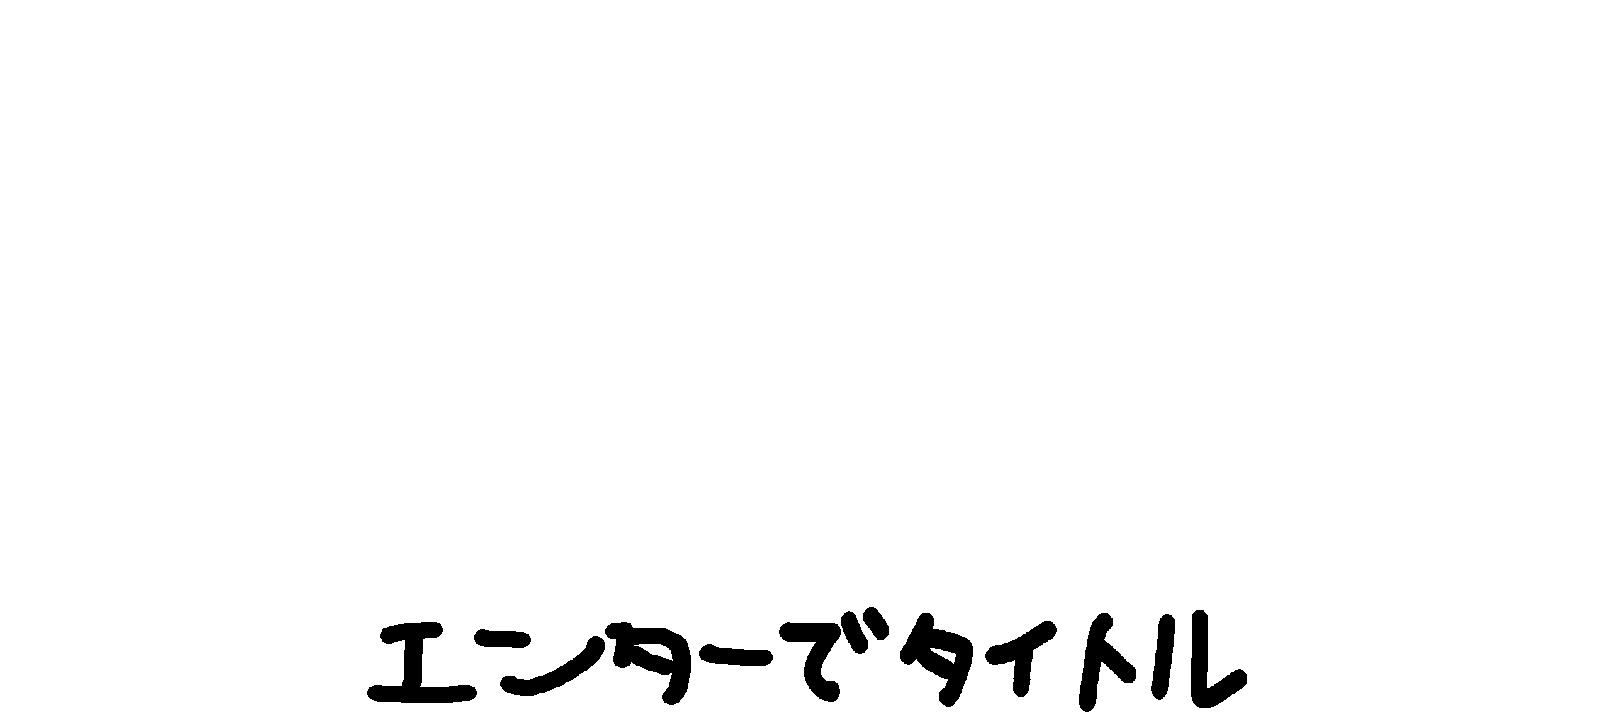
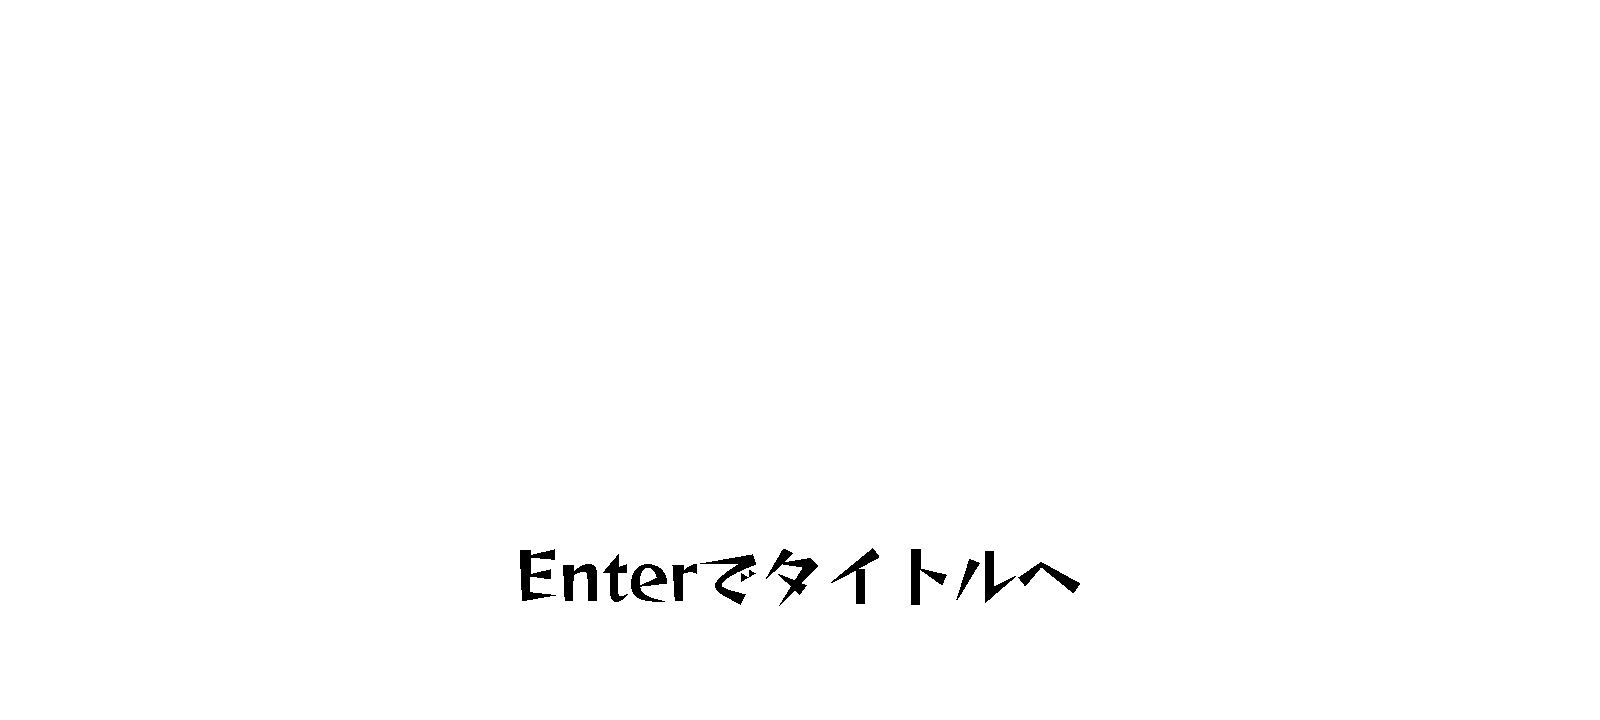
【main】初期化処理&ゲームオーバー画面のフォント差し替え

Changed region(s): [[0.2188, 0.7639, 0.7812, 1.0]]

diff --git a/main.cpp b/main.cpp
@@ -215,7 +215,7 @@ int WINAPI WinMain(HINSTANCE, HINSTANCE, LPSTR, int)
 		Novice::LoadAudio("./Resources./Audios./Glass.mp3"),  //グラスが割れた
 		Novice::LoadAudio("./Resources./Audios./Bottle.mp3")  //瓶が割れた
 	};
-
+	int countCatSE = 0;
 	int catSePlay = -1;
 	int glassSePlay = -1;
 	int bottleSePlay = -1;
@@ -283,6 +283,10 @@ int WINAPI WinMain(HINSTANCE, HINSTANCE, LPSTR, int)
 					//落とすオブジェクト
 					for (int i = 0; i < remainObj; i++)
 					{
+						obj[i] =
+						{
+							{ {float(290 + (256 * i)),580},{0,0},64,0,WHITE },false,true,0,false,1
+						};
 						if (!obj[i].WeightFlag)
 						{
 							obj[i].Hp = lightObjHp;
@@ -297,7 +301,9 @@ int WINAPI WinMain(HINSTANCE, HINSTANCE, LPSTR, int)
 						score[i] = 0;
 					}
 					sceneTransFlag = 1;
-
+					countCatSE = 0;
+					attackFlag = 0;
+					attackTimer = 0;
 					//遷移処理はここで記述すると
 					//不具合が起きるため下の描画処理に有り
 				}
@@ -795,7 +801,7 @@ int WINAPI WinMain(HINSTANCE, HINSTANCE, LPSTR, int)
 				else if (!safeFlag && isOwnerLook)
 				{
 					//プレイヤーの死亡処理
-					//isPAlive = false;
+					isPAlive = false;
 				}
 				//ownerTimerが660となっているがサカイのPCが165fpsであるため
 				//165*4(つまりサカイのPC上で3秒)で660となっている。
@@ -948,7 +954,11 @@ int WINAPI WinMain(HINSTANCE, HINSTANCE, LPSTR, int)
 
 			if (keys[DIK_RETURN] && preKeys[DIK_RETURN] == 0)
 			{
-				catSePlay = Novice::PlayAudio(seHundle[0], 0, 0.3f);
+				if (countCatSE == 0)
+				{
+					catSePlay = Novice::PlayAudio(seHundle[0], 0, 0.3f);
+				}
+				countCatSE++;
 			}
 
 			break;
@@ -1129,7 +1139,6 @@ int WINAPI WinMain(HINSTANCE, HINSTANCE, LPSTR, int)
 				//走る描画
 				if (runFlag == true)
 				{
-
 					if (runFlagL && !runFlagR)
 					{
 						if (runTimerL < 6)
@@ -1209,62 +1218,61 @@ int WINAPI WinMain(HINSTANCE, HINSTANCE, LPSTR, int)
 							}
 						}
 					}
-						if (runFlag)
+					if (runFlag)
+					{
+						if (!runFlagL&&!runFlagR)
 						{
-							if (!runFlagL&&!runFlagR)
+							if (idleFlagL || walkFlagL)
 							{
-								if (idleFlagL || walkFlagL)
+								if (attackTimer < 3)
 								{
-									if (attackTimer < 3)
-									{
-										Novice::DrawSprite(int(player.Center.X - player.Rad), int(player.Center.Y - player.Rad), playerTexHundle[0], 1, 1, 0.0f, WHITE);
+									Novice::DrawSprite(int(player.Center.X - player.Rad), int(player.Center.Y - player.Rad), playerTexHundle[0], 1, 1, 0.0f, WHITE);
 
-									}
-									if (attackTimer < 6 && attackTimer>2)
-									{
-										Novice::DrawSpriteRect(int(player.Center.X - player.Rad), int(player.Center.Y - player.Rad), 0, 0, 128, 128, playerTexHundle[6], ((float)128 / (float)512), 1, 0.0f, 0xFFFFFFFF);
-									}
-									if (attackTimer < 12 && attackTimer>5)
-									{
-										Novice::DrawSpriteRect(int(player.Center.X - player.Rad), int(player.Center.Y - player.Rad), 128, 0, 128, 128, playerTexHundle[6], ((float)128 / (float)512), 1, 0.0f, 0xFFFFFFFF);
-									}
-									if (attackTimer < 18 && attackTimer>11)
-									{
-										Novice::DrawSpriteRect(int(player.Center.X - player.Rad), int(player.Center.Y - player.Rad), 256, 0, 128, 128, playerTexHundle[6], ((float)128 / (float)512), 1, 0.0f, 0xFFFFFFFF);
-									}
-									if (attackTimer < 24 && attackTimer>17)
-									{
-										Novice::DrawSpriteRect(int(player.Center.X - player.Rad), int(player.Center.Y - player.Rad), 384, 0, 128, 128, playerTexHundle[6], ((float)128 / (float)512), 1, 0.0f, 0xFFFFFFFF);
-									}
 								}
-
-								if (idleFlagR || walkFlagR)
+								if (attackTimer < 6 && attackTimer>2)
 								{
-									if (attackTimer < 3)
-									{
-										Novice::DrawSprite(int(player.Center.X - player.Rad), int(player.Center.Y - player.Rad), playerTexHundle[1], 1, 1, 0.0f, WHITE);
+									Novice::DrawSpriteRect(int(player.Center.X - player.Rad), int(player.Center.Y - player.Rad), 0, 0, 128, 128, playerTexHundle[6], ((float)128 / (float)512), 1, 0.0f, 0xFFFFFFFF);
+								}
+								if (attackTimer < 12 && attackTimer>5)
+								{
+									Novice::DrawSpriteRect(int(player.Center.X - player.Rad), int(player.Center.Y - player.Rad), 128, 0, 128, 128, playerTexHundle[6], ((float)128 / (float)512), 1, 0.0f, 0xFFFFFFFF);
+								}
+								if (attackTimer < 18 && attackTimer>11)
+								{
+									Novice::DrawSpriteRect(int(player.Center.X - player.Rad), int(player.Center.Y - player.Rad), 256, 0, 128, 128, playerTexHundle[6], ((float)128 / (float)512), 1, 0.0f, 0xFFFFFFFF);
+								}
+								if (attackTimer < 24 && attackTimer>17)
+								{
+									Novice::DrawSpriteRect(int(player.Center.X - player.Rad), int(player.Center.Y - player.Rad), 384, 0, 128, 128, playerTexHundle[6], ((float)128 / (float)512), 1, 0.0f, 0xFFFFFFFF);
+								}
+							}
 
-									}
-									if (attackTimer < 6 && attackTimer>2)
-									{
-										Novice::DrawSpriteRect(int(player.Center.X - player.Rad), int(player.Center.Y - player.Rad), 0, 0, 128, 128, playerTexHundle[7], ((float)128 / (float)512), 1, 0.0f, 0xFFFFFFFF);
-									}
-									if (attackTimer < 12 && attackTimer>5)
-									{
-										Novice::DrawSpriteRect(int(player.Center.X - player.Rad), int(player.Center.Y - player.Rad), 128, 0, 128, 128, playerTexHundle[7], ((float)128 / (float)512), 1, 0.0f, 0xFFFFFFFF);
-									}
-									if (attackTimer < 18 && attackTimer>11)
-									{
-										Novice::DrawSpriteRect(int(player.Center.X - player.Rad), int(player.Center.Y - player.Rad), 256, 0, 128, 128, playerTexHundle[7], ((float)128 / (float)512), 1, 0.0f, 0xFFFFFFFF);
-									}
-									if (attackTimer < 24 && attackTimer>17)
-									{
-										Novice::DrawSpriteRect(int(player.Center.X - player.Rad), int(player.Center.Y - player.Rad), 384, 0, 128, 128, playerTexHundle[7], ((float)128 / (float)512), 1, 0.0f, 0xFFFFFFFF);
-									}
+							if (idleFlagR || walkFlagR)
+							{
+								if (attackTimer < 3)
+								{
+									Novice::DrawSprite(int(player.Center.X - player.Rad), int(player.Center.Y - player.Rad), playerTexHundle[1], 1, 1, 0.0f, WHITE);
+
+								}
+								if (attackTimer < 6 && attackTimer>2)
+								{
+									Novice::DrawSpriteRect(int(player.Center.X - player.Rad), int(player.Center.Y - player.Rad), 0, 0, 128, 128, playerTexHundle[7], ((float)128 / (float)512), 1, 0.0f, 0xFFFFFFFF);
+								}
+								if (attackTimer < 12 && attackTimer>5)
+								{
+									Novice::DrawSpriteRect(int(player.Center.X - player.Rad), int(player.Center.Y - player.Rad), 128, 0, 128, 128, playerTexHundle[7], ((float)128 / (float)512), 1, 0.0f, 0xFFFFFFFF);
+								}
+								if (attackTimer < 18 && attackTimer>11)
+								{
+									Novice::DrawSpriteRect(int(player.Center.X - player.Rad), int(player.Center.Y - player.Rad), 256, 0, 128, 128, playerTexHundle[7], ((float)128 / (float)512), 1, 0.0f, 0xFFFFFFFF);
+								}
+								if (attackTimer < 24 && attackTimer>17)
+								{
+									Novice::DrawSpriteRect(int(player.Center.X - player.Rad), int(player.Center.Y - player.Rad), 384, 0, 128, 128, playerTexHundle[7], ((float)128 / (float)512), 1, 0.0f, 0xFFFFFFFF);
 								}
 							}
 						}
-
+					}
 				}
 			}
 
